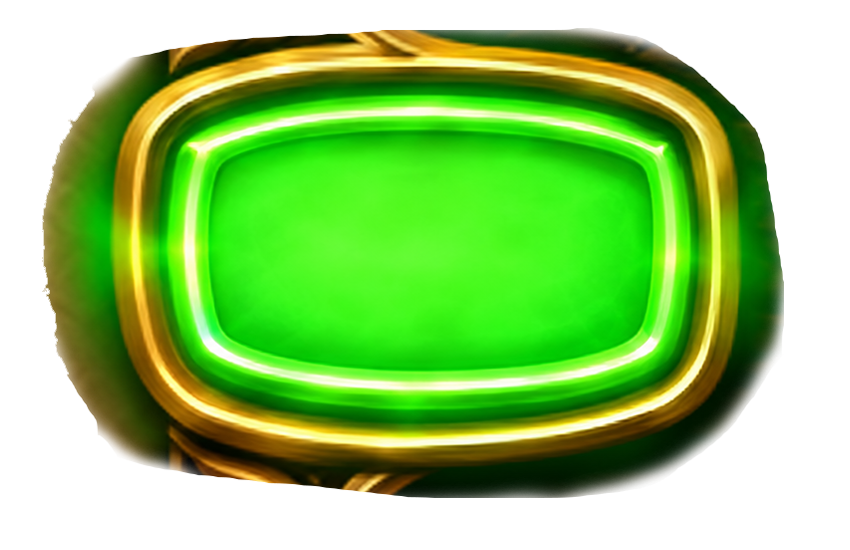
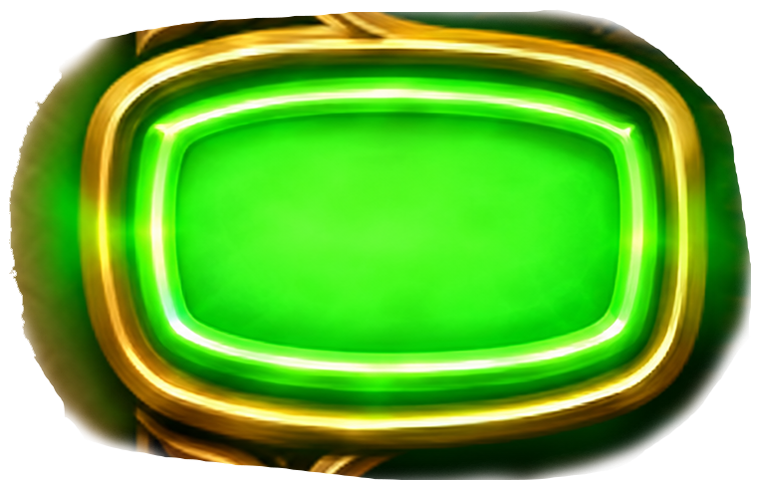
Trim end-turn PNG padding and seat in well (v0.214).

diff --git a/fantasy_arena/index.html b/fantasy_arena/index.html
@@ -7,7 +7,7 @@
 <link rel="preconnect" href="https://fonts.googleapis.com" />
 <link rel="preconnect" href="https://fonts.gstatic.com" crossorigin />
 <link href="https://fonts.googleapis.com/css2?family=DM+Sans:ital,opsz,wght@0,9..40,400;0,9..40,500;0,9..40,600;0,9..40,700;1,9..40,400&display=swap" rel="stylesheet" />
-<link rel="stylesheet" href="css/game.css?v=0.213" />
+<link rel="stylesheet" href="css/game.css?v=0.214" />
 </head>
 <body>
 <button class="bgm-btn" id="bgmBtn" title="모험 BGM">♪</button>
@@ -230,9 +230,9 @@
 <script src="js/bgm.js?v=0.102"></script>
 <script src="js/sfx.js?v=0.102"></script>
 <script src="js/settings.js?v=0.196"></script>
-<script src="js/render.js?v=0.213"></script>
+<script src="js/render.js?v=0.214"></script>
 <script src="js/combat.js?v=0.188"></script>
 <script src="js/spell-fx.js?v=0.102"></script>
-<script src="js/game.js?v=0.213"></script>
+<script src="js/game.js?v=0.214"></script>
 </body>
 </html>

diff --git a/fantasy_arena/js/render.js b/fantasy_arena/js/render.js
@@ -827,10 +827,10 @@ function layoutEndBtn() {
   // 4000×3000 board art — empty oval in right gold frame between hero sockets
   // Screen-measured empty well on v0.212 shot: fill cx≈0.92, cy≈0.45, fill≈0.088 board
   const CX = 0.920;
-  const CY = 0.450;
-  const WIDTH_FRAC = 0.100;
+  const CY = 0.430;
+  const WIDTH_FRAC = 0.105;
   const bw = contentW * WIDTH_FRAC;
-  const bh = bw * (550 / 850);
+  const bh = bw * (490 / 760);
   const left = contentLeft + contentW * CX - bw / 2 - mr.left;
   const top = contentTop + contentH * CY - bh / 2 - mr.top;
   btn.style.left = left + "px";

diff --git a/fantasy_arena/css/game.css b/fantasy_arena/css/game.css
@@ -3843,7 +3843,7 @@ html.is-desktop #game.active .my-hand .card.playable,
   border: none;
   border-radius: 0;
   background-color: transparent;
-  background-size: contain;
+  background-size: 100% 100%;
   background-repeat: no-repeat;
   background-position: center;
   box-shadow: none;

diff --git a/fantasy_arena/js/game.js b/fantasy_arena/js/game.js
@@ -1,4 +1,4 @@
-const GAME_VERSION = "0.213";
+const GAME_VERSION = "0.214";
 window.GAME_VERSION = GAME_VERSION;
 
 function uid() { return Math.random().toString(36).slice(2, 9); }
